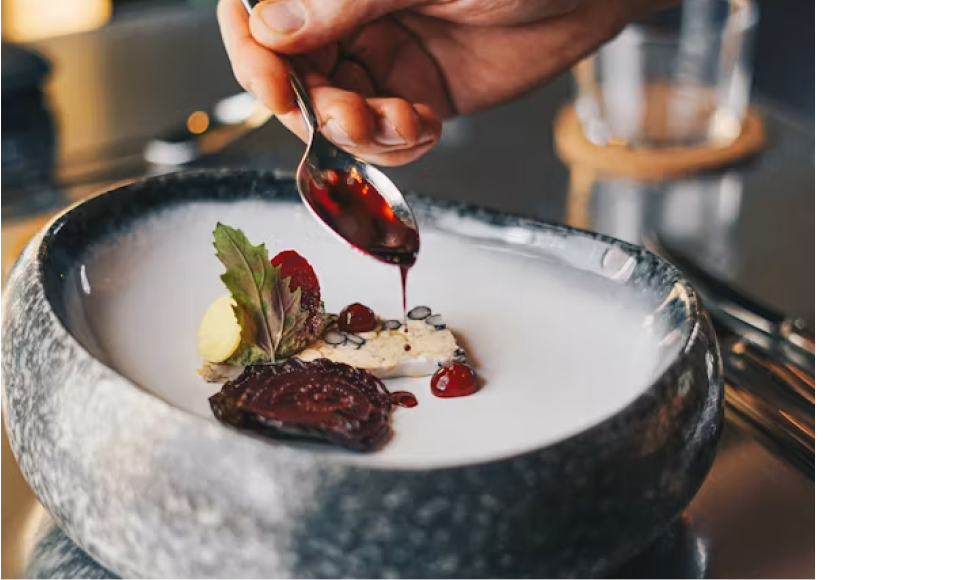
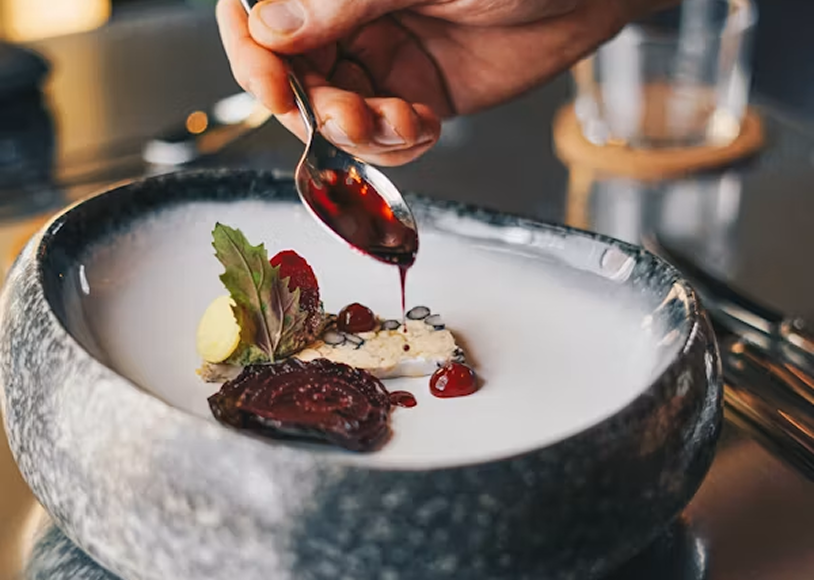
feat: complete desktop layout for about us page

diff --git a/as1/css/about_us.css b/as1/css/about_us.css
@@ -103,8 +103,6 @@
 }
 
 .culinary-image {
-    flex: 1;
-    min-width: 0;
     height: 590px;
 }
 
@@ -112,7 +110,6 @@
     width: 100%;
     height: 100%;
     object-fit: cover;
-    display: block;
 }
 
 /* Description */
@@ -123,11 +120,116 @@
     text-align: center;
 }
 
-/* Adjust Ham Salad Image */
-.culinary-image:nth-child(2) img {
-    width: 111%;
-    max-width: none;
+/* OUR COMMITMENT */
+
+.commitment-section {
+    width: 100%;
+    display: flex;
+    background-color: var(--bg-black);
+    height: 840px;
+}
+
+/* Text Content */
+.commitment-content {
+    width: 35.5%;
+    display: flex;
+    align-items: center;
+    justify-content: center;
+    padding: 0 5.3%;
+}
+
+.commitment-text {
+    width: 100%;
+}
+
+.commitment-text h1 {
+    color: var(--text-white);
+    margin-bottom: 55px;
+}
+
+.commitment-text p {
+    color: var(--text-white);
+    margin: 0;
+}
+
+/* Images */
+.commitment-image {
+    overflow: hidden;
+}
+
+.commitment-image:nth-child(2) {
+    width: 35.9%;
+}
+
+.commitment-image:nth-child(3) {
+    width: 28.6%;
+}
+
+.commitment-image img {
+    width: 100%;
     height: 100%;
     object-fit: cover;
-    object-position: center;
+    display: block;
+}
+
+/* OUR ACHIEVEMENTS */
+
+.achievement-section {
+    width: 100%;
+    min-height: 900px;
+    background-image: url("../images/achievement_background.jpg");
+    background-size: cover;
+    background-position: center;
+    background-repeat: no-repeat;
+    padding: 90px 5%;
+    text-align: center;
+}
+
+/* Heading */
+
+.achievement-heading h1 {
+    color: var(--text-white);
+    margin: 0 0 50px;
+}
+
+.achievement-heading p {
+    color: var(--text-white);
+    max-width: 900px;
+    margin: 0 auto;
+}
+
+/* Award Items */
+
+.achievement-awards {
+    display: flex;
+    justify-content: space-around;
+    align-items: flex-start;
+    gap: 30px;
+    margin-top: 45px;
+}
+
+.achievement-item {
+    flex: 1;
+    display: flex;
+    flex-direction: column;
+    align-items: center;
+}
+
+.achievement-item h2 {
+    color: var(--text-white);
+    margin: 0 0 25px;
+}
+
+.achievement-item span {
+    width: 85px;
+    height: 1px;
+    background-color: var(--grey-light);
+    margin-bottom: 45px;
+}
+
+.achievement-item img {
+    width: 300px;
+    height: 300px;
+    object-fit: contain;
+    display: block;
 }

diff --git a/as1/about_us.html b/as1/about_us.html
@@ -107,6 +107,79 @@
 
     </section>
 
+    
+<!-- OUR COMMITMENT -->
+<section class="commitment-section">
+
+    <!-- Text Content -->
+    <div class="commitment-content">
+        <div class="commitment-text">
+            <h1>OUR COMMITMENT</h1>
+
+            <p>
+                At ROMALIYA, every guest is welcomed
+                with genuine hospitality and impeccable
+                service. We strive to create memorable
+                moments through attention to detail,
+                consistency, and an unwavering passion
+                for excellence.
+            </p>
+        </div>
+    </div>
+
+    <!-- Party Image -->
+    <div class="commitment-image">
+        <img src="images/party.png" alt="Guests celebrating together">
+    </div>
+
+    <!-- Wine Image -->
+    <div class="commitment-image">
+        <img src="images/cavatina_wine.png" alt="Wine bottles at ROMALIYA">
+    </div>
+
+</section>
+
+<!-- OUR ACHIEVEMENTS -->
+<section class="achievement-section">
+
+    <!-- Section Heading -->
+    <div class="achievement-heading">
+        <h1>OUR ACHIEVEMENTS</h1>
+
+        <p>
+            Our dedication to excellence has earned recognition for outstanding cuisine,
+            exceptional service, and unforgettable dining experiences. These achievements
+            inspire us to continually raise our standards.
+        </p>
+    </div>
+
+    <!-- Award Images -->
+    <div class="achievement-awards">
+
+        <div class="achievement-item">
+            <h2>01</h2>
+            <span></span>
+            <img src="images/world_luxury_awards.png"
+                 alt="World Luxury Restaurant Awards">
+        </div>
+
+        <div class="achievement-item">
+            <h2>02</h2>
+            <span></span>
+            <img src="images/gourmet_awards.png"
+                 alt="Gourmet Traveller Annual Restaurant Awards">
+        </div>
+
+        <div class="achievement-item">
+            <h2>03</h2>
+            <span></span>
+            <img src="images/agfg_award.png"
+                 alt="AGFG Award Winner 2024">
+        </div>
+
+    </div>
+
+</section>
 
      <!-- FOOTER -->
 <footer class="footer">
